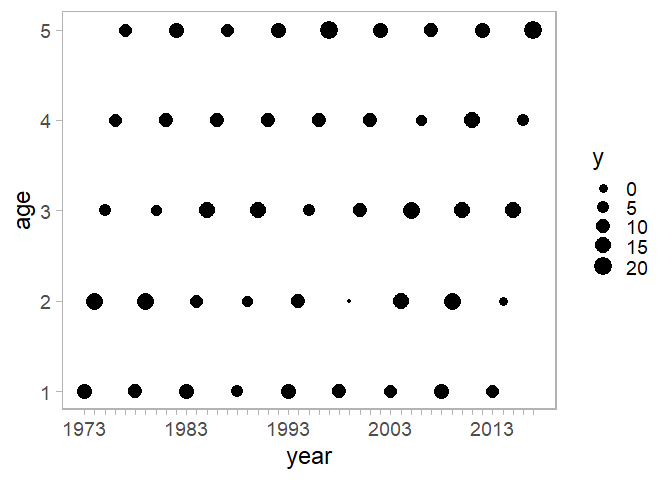
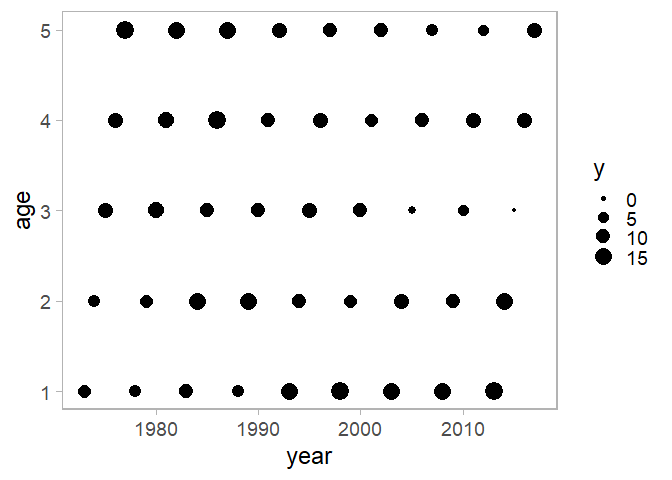
update

diff --git a/README.md b/README.md
@@ -140,12 +140,9 @@ Presentation ready figure can be generated by changing the theme to
 labels may need to be adjusted to account for the increased font size.
 
 ``` r
-xaxis = tickr(df, year, 10)
 
 ggplot(df, aes(year, age, size = y)) + 
   geom_point() +
-  scale_x_continuous(breaks = xaxis$breaks, 
-                     labels = xaxis$labels) +
   theme_present()
 ```
 
